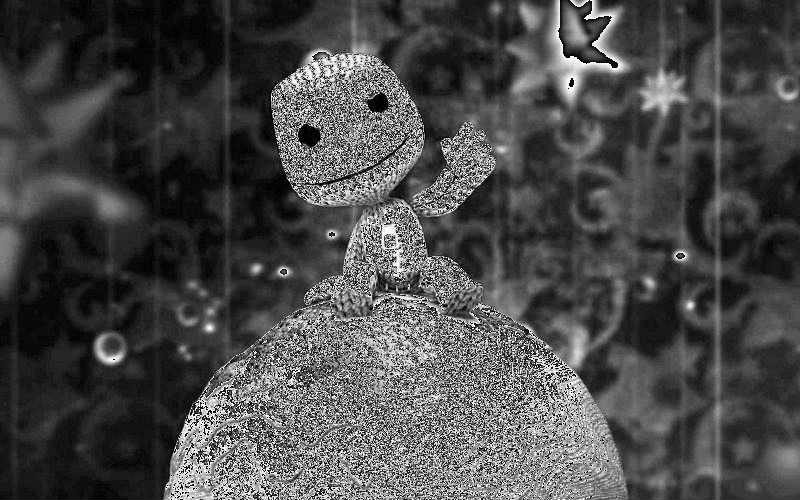
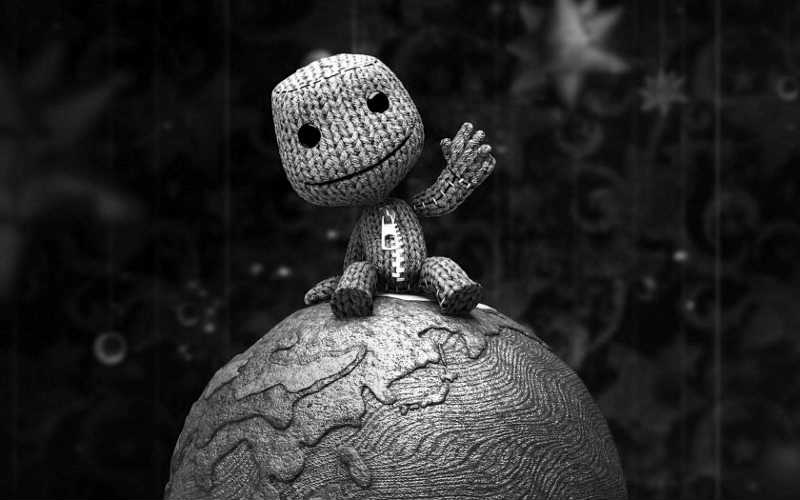
Fix bad math
I return 3 numbers but really i should return a dang pixel. i sum all 3
so i need to div by 3 all over..

diff --git a/gray-scale/src/gray/decomposition.rs b/gray-scale/src/gray/decomposition.rs
@@ -21,7 +21,7 @@ impl Decomposition{
 
 impl Gray for Decomposition{
     fn gray(&self, red: u8, blue: u8, green: u8)-> (u8, u8, u8){
-        let color = match self.selector{
+        let base = match self.selector{
             Selector::Max => {
                 cmp::max(cmp::max(red, green), blue)
             }
@@ -29,6 +29,7 @@ impl Gray for Decomposition{
                 cmp::min(cmp::min(red, green), blue)
             }
         };
+        let color = base as f32 / 3.0;
         (color as u8, color as u8, color as u8)
     }
 }

diff --git a/gray-scale/src/gray/channel.rs b/gray-scale/src/gray/channel.rs
@@ -27,7 +27,7 @@ impl Channel{
 
 impl Gray for Channel{
     fn gray(&self, red: u8, blue: u8, green: u8)-> (u8, u8, u8){
-        let color = match self.selector{
+        let base = match self.selector{
             Color::Red => {
                 red
             }
@@ -38,6 +38,7 @@ impl Gray for Channel{
                 green
             }
         };
+        let color = base as f32 / 3.0;
         (color as u8, color as u8, color as u8)
     }
 }

diff --git a/gray-scale/src/gray/desaturation.rs b/gray-scale/src/gray/desaturation.rs
@@ -12,7 +12,7 @@ impl Gray for Desaturation{
     fn gray(&self, red: u8, blue: u8, green: u8)-> (u8, u8, u8){
         let max = cmp::max(cmp::max(red, green), blue);
         let min = cmp::min(cmp::min(red, green), blue);
-        let color =  (min as u32 + max as u32)  as f32 /2.0;
+        let color =  (min as u32 + max as u32)  as f32 /6.0;
         (color as u8, color as u8, color as u8)
     }
 }
